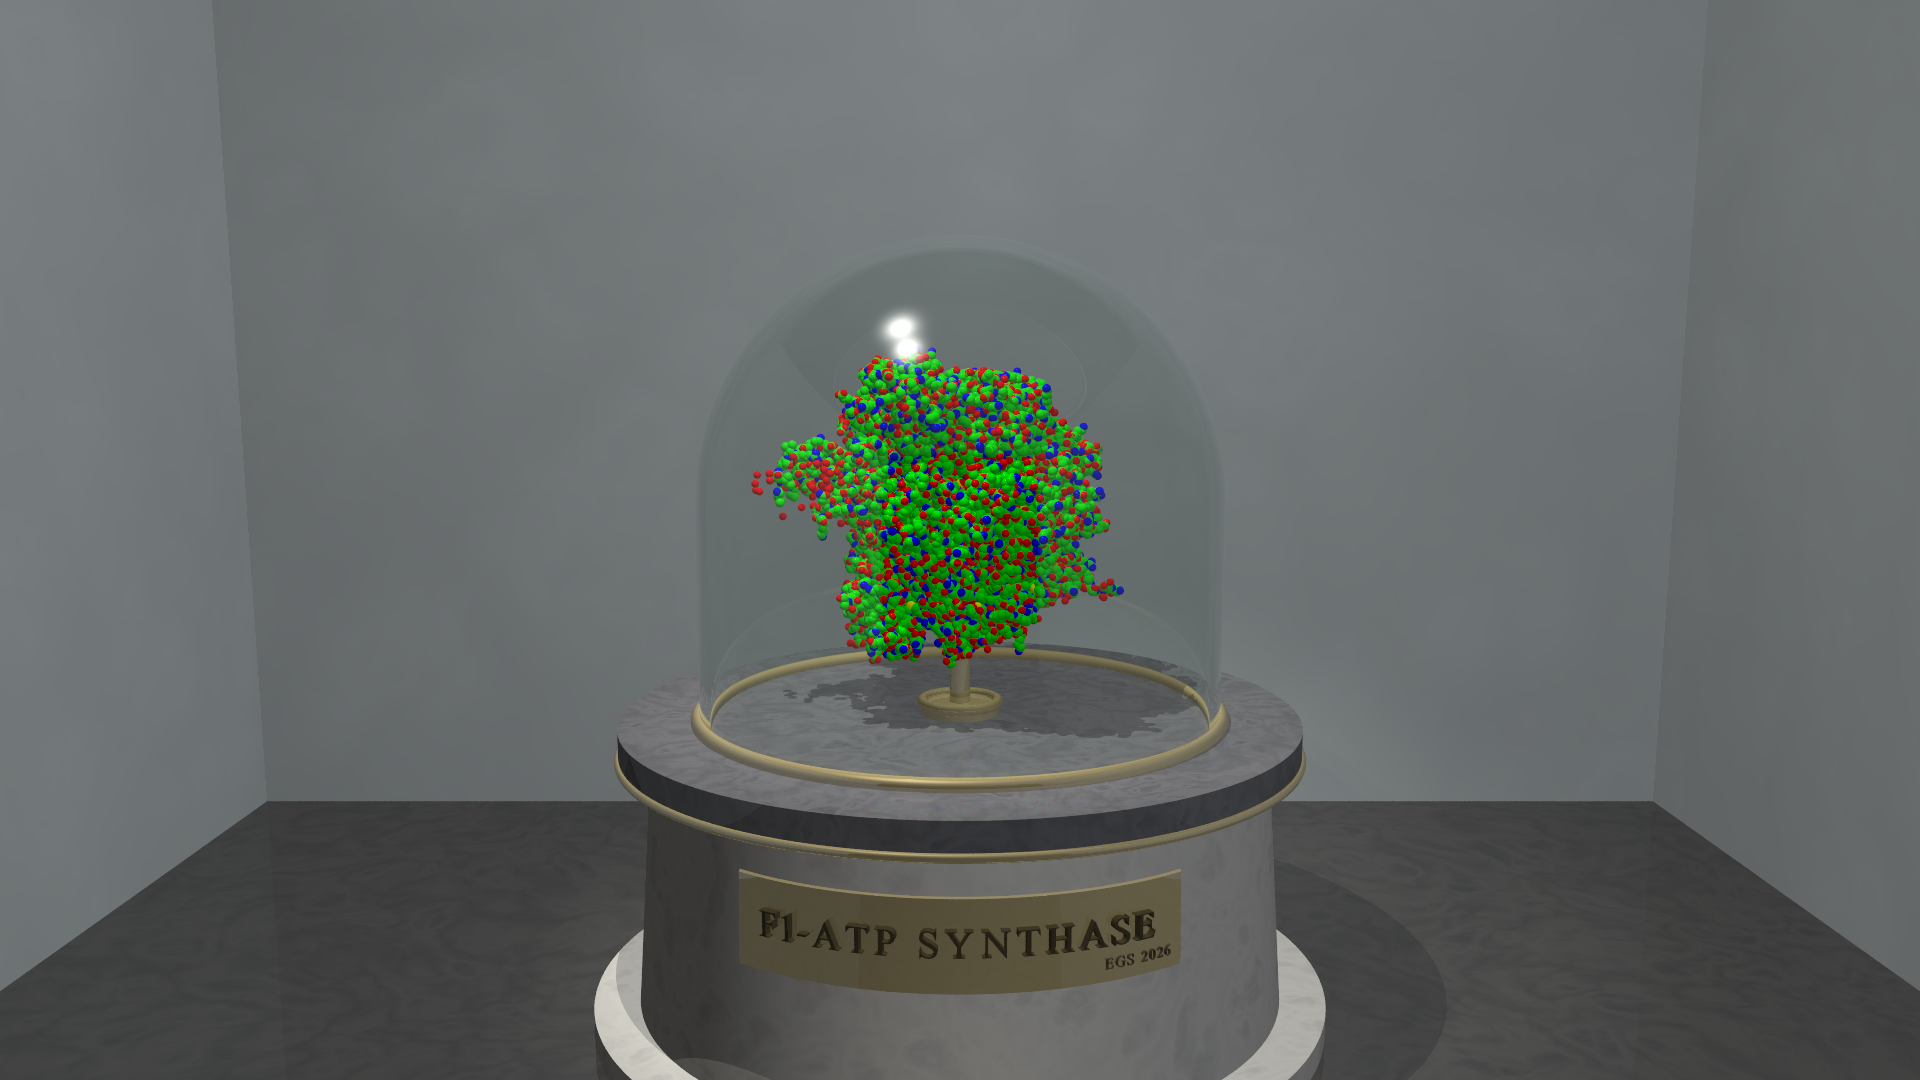
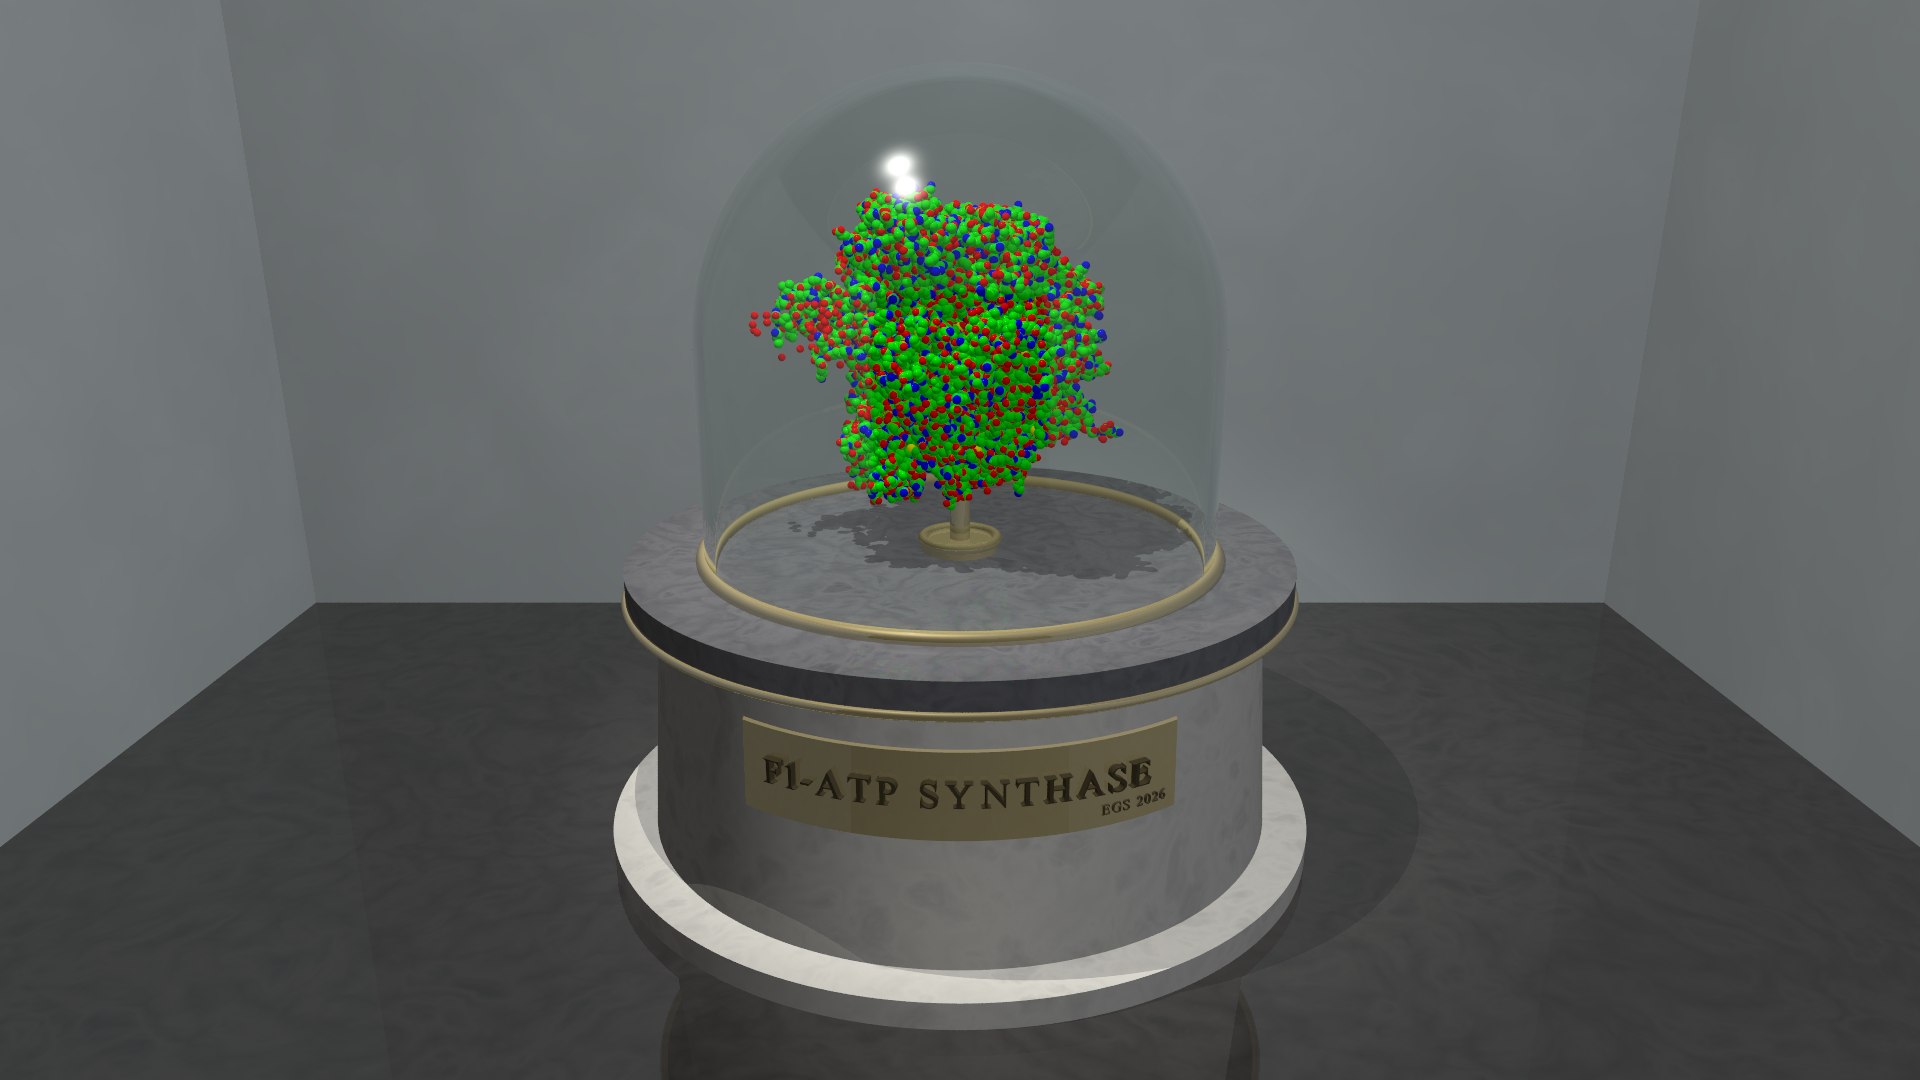
feat(vitrine): reframe -- pitch down, dolly in, wet the floor
Camera work, settled by eye against renders rather than derived.

The plinth's foot ran off the bottom of the frame, so the exhibit read as
standing on nothing.  Pitching down alone could not fix it: the drop from eye
to floor is large next to a 38.5 degree lens, and steepening the pitch pushes
the jar toward the top of frame as fast as it brings the base in.  Widening to
44 degrees buys both ends at once, and from there aim -1.30 and eye 6.90 put
the whole plinth in shot with headroom over the dome.

The floor now uses fresnel reflection, 0.10 face-on rising to 0.55 at grazing
angles, over an ior 1.6 interior.  Flat 0.16 looked like a sheen laid on
evenly; real polished stone mirrors hard toward the back of the room and stays
stone underfoot, and that gradient is a depth cue in its own right -- the
plaque now reads in the floor beneath the plinth.

Dollying in tightens the depth range, so the numbers move with it and are
re-synced in the driver: near 6.634 -> 5.534, far 11.400 -> 10.300, focal
plane 8.4 -> 7.2.  Disparity stays balanced at 2.99 px a view, still well
inside the 5.5 px soft limit, and the corridor now permits 67.4 degrees
against the 50 the display asks for.  The scene and the driver hold these
numbers in two places, which is why Vitrine_Report() prints them.

Drops the 4K centre-view still: same framing as the hero at 2.4 MB, and
regenerable in under two seconds.

Changed region(s): [[0.0, 0.1222, 1.0, 1.0], [0.3438, 0.4889, 0.375, 0.55]]

diff --git a/scripts/render_vitrine.py b/scripts/render_vitrine.py
@@ -49,16 +49,16 @@ PDB2POV_INCLUDE = Path.home() / "repos/pdb2pov/python/src/pypdb2pov/include"
 # hand: the scene prints them at parse time via Vitrine_Report(), so a drift
 # shows up in the render log rather than silently.
 
-EYE = (0.0, 0.78, -8.00)
-AIM = (0.0, -0.42, 0.00)
-FOV_V = 38.5
+EYE = (0.0, 0.95, -6.90)
+AIM = (0.0, -1.30, 0.00)
+FOV_V = 44.0
 ASPECT = 16 / 9
 
 #: Nearest content: the front of the bell jar.  Farthest: the alcove's back
 #: wall.  Both are analytic here, which is the whole advantage of a room you
 #: built rather than one you inherited -- no plane-sweep probing.
-NEAR = 6.634
-FAR = 11.400
+NEAR = 5.534
+FAR = 10.300
 
 #: The alcove's side walls, in scene units either side of the eye.
 ROOM = Clearance(left=-5.30, right=5.30, margin=0.50)
